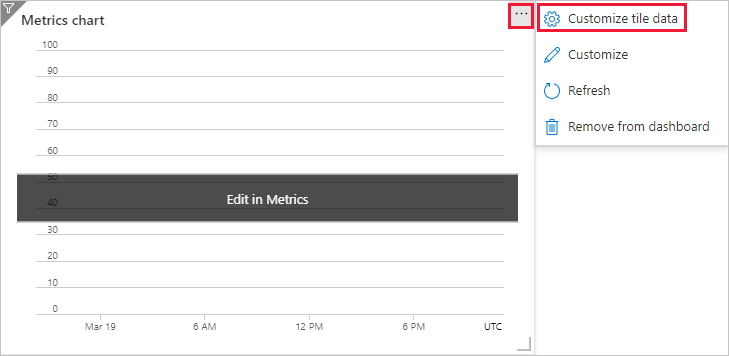
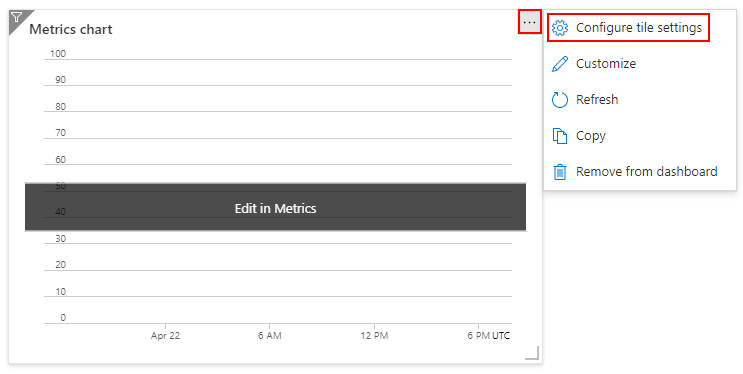
update tile customization info

diff --git a/articles/azure-portal/azure-portal-dashboards.md b/articles/azure-portal/azure-portal-dashboards.md
@@ -3,7 +3,7 @@ title: Create a dashboard in the Azure portal
 description: This article describes how to create and customize a dashboard in the Azure portal.
 ms.assetid: ff422f36-47d2-409b-8a19-02e24b03ffe7
 ms.topic: how-to
-ms.date: 04/15/2021
+ms.date: 05/06/2021
 ---
 
 # Create a dashboard in the Azure portal
@@ -37,7 +37,7 @@ This example shows how to create a new private dashboard with an assigned name. 
 
     :::image type="content" source="media/azure-portal-dashboards/dashboard-name.png" alt-text="Screenshot of an empty grid with the Tile Gallery.":::
 
-1. To save the dashboard as is, select **Done customizing** in the page header. Or, continue to the next section to add tiles and save your dashboard.
+1. To save the dashboard as is, select **Done customizing** in the page header. Or, continue to Step 2 of the next section to add tiles and save your dashboard.
 
 The dashboard view now shows your new dashboard. Select the arrow next to the dashboard name to see dashboards available to you. The list might include dashboards that other users have created and shared.
 
@@ -63,21 +63,26 @@ To add tiles to a dashboard, follow these steps:
 
     - If you work with more than one organization, add the **Organization identity** tile to your dashboard to clearly show which organization the resources belong to.
 
-1. If desired, resize the tile by dragging and dropping the lower right hand corner of the tile.
+1. If desired, [resize or rearrange](#resize-or-rearrange-tiles) your tiles.
 
-1. To save your changes, select **Save** in the page header. You can also preview the changes without saving by selecting **Preview** in the page header. From the preview screen, you can select **Save** to keep the changes, **Discard** to remove them, or **Edit** to go back to the editing options and make further changes.
+1. To save your changes, select **Save** in the page header. You can also preview the changes without saving by selecting **Preview** in the page header. This preview mode also allows you to see how [filters](#set-and-override-dashboard-filters) affect your tiles. From the preview screen, you can select **Save** to keep the changes, **Discard** to remove them, or **Edit** to go back to the editing options and make further changes.
 
    :::image type="content" source="media/azure-portal-dashboards/dashboard-save.png" alt-text="Screenshot of the Preview, Save, and Discard options.":::
+
+> [!NOTE]
+> A markdown tile lets you display custom, static content on your dashboard. This could be basic instructions, an image, a set of hyperlinks, or even contact information. For more information about using a markdown tile, see [Use a markdown tile on Azure dashboards to show custom content](azure-portal-markdown-tile.md).
 
 ### Pin content from a resource page
 
 Another way to add tiles to your dashboard is directly from a resource page.
 
-Many resource pages include a pin icon in the command bar. If you select this icon, you can pin a tile representing the source page to an existing dashboard, or to a new dashboard that you create.
+Many resource pages include a pin icon in the page header, which means that you can pin a tile representing the source page. In some cases, a pin icon may also appear by specific content within a page, which means you can pin a tile for that specific content, rather than the entire page.
 
-![Screenshot of page command bar with pin icon](./media/azure-portal-dashboards/dashboard-pin-blade.png)
+:::image type="content" source="media/azure-portal-dashboards/dashboard-pin-blade.png" alt-text="Screenshot of page command bar with pin icon.":::
 
-In some cases, a pin icon may also appear by specific content within a page, which means you can pin a tile for that specific content rather than the entire page.
+If you select this icon, you can pin the tile to an existing private or shared dashboard. You can also create a new dashboard which will include this pin by selecting **Create new**.
+
+:::image type="content" source="media/azure-portal-dashboards/dashboard-pin-pane.png" alt-text="Screenshot of Pin to dashboard options.":::
 
 ### Resize or rearrange tiles
 
@@ -91,26 +96,45 @@ To change the size of a tile or to rearrange the tiles on a dashboard, follow th
 
 1. Select a tile and drag it to a new location on the grid to arrange your dashboard.
 
-### Additional tile configuration
+### Set and override dashboard filters
 
-Some tiles might require more configuration to show the information you want. For example, the **Metrics chart** tile has to be set up to display a metric from Azure Monitor. You can also customize tile data to override the dashboard's default time settings.
+Near the top of your dashboard, you'll see options to set the **Auto refresh** and **Time settings** for data displayed in the dashboard, along with an option to add additional filters.
 
-Any tile that needs to be set up displays a banner until you customize the tile. For the **Metrics chart**, the banner is **Edit in Metrics**.To customize the tile:
+:::image type="content" source="media/azure-portal-dashboards/dashboard-global-filters.png" alt-text="Screenshot showing a dashboard's global filters.":::
+
+By default, data will be refreshed every hour. To change this, select **Auto refresh** and choose a new refresh interval. When you've made your selection, select **Apply**.
+
+The default time settings are **UTC Time**, showing data for the **Past 24 hours**. To change this, select the button and choose a new time range, time granularity, and/or time zone, then select **Apply**.
+
+To apply additional filters, select **Add filters**. The options you'll see will vary depending on the tiles in your dashboard. For example, you may be able to show only data for a specific subscription or location. Select the filter you'd like to use and make your selections. The filter will then be applied to your data. To remove a filter, select the **X** in its button.
+
+Tiles which support filtering have a ![filter icon](./media/azure-portal-dashboards/dashboard-filter.png) filter icon in the top-left corner of the tile. Some tiles allow you to override the global filters with filters specific to that tile. To do so, select **Configure tile data** from the context menu, or select the ![filter icon](./media/azure-portal-dashboards/dashboard-filter.png), then apply the desired filters.
+
+If you set filters for a particular tile, the left corner of that tile displays a double filter icon, indicating that the data in that tile reflects its own filters.
+
+:::image type="content" source="media/azure-portal-dashboards/dashboard-filter-override.png" alt-text="Screenshot showing the icon for a tile with a filter override.":::
+
+## Modify tile settings
+
+Some tiles might require more configuration to show the information you want. For example, the **Metrics chart** tile has to be set up to display a metric from Azure Monitor. You can also customize tile data to override the dashboard's default time settings and filters.
+
+## Complete tile configuration
+
+Any tile that needs to be set up displays a banner until you customize the tile. For example, in the **Metrics chart**, the banner reads **Edit in Metrics**. Other banners may use different text, such as **Configure tile**.
+
+To customize the tile:
 
 1. In the page header select **Save** to exit edit mode.
 
 1. Select the banner, then do the required setup.
 
-    ![Screenshot of tile that requires configuration](./media/azure-portal-dashboards/dashboard-configure-tile.png)
+    ![Screenshot of tile that requires configuration.](./media/azure-portal-dashboards/dashboard-configure-tile.png)
 
-> [!NOTE]
-> A markdown tile lets you display custom, static content on your dashboard. This could be basic instructions, an image, a set of hyperlinks, or even contact information. For more information about using a markdown tile, see [Use a markdown tile on Azure dashboards to show custom content](azure-portal-markdown-tile.md).
+### Customize time span for a tile
 
-### Customize tile data
+Data on the dashboard shows activity and refreshes based on the global filters. Some tiles will allow you to select a different time span for just one tile. To do so, follow these steps:
 
-Data on the dashboard automatically shows activity for the past 24 hours. To show a different time span for just this tile, follow these steps:
-
-1. Select **Customize tile data** from the context menu or from the ![filter icon](./media/azure-portal-dashboards/dashboard-filter.png) filter in the upper left corner of the tile.
+1. Select **Customize tile data** from the context menu or from the ![filter icon](./media/azure-portal-dashboards/dashboard-filter.png) in the upper left corner of the tile.
 
     ![Screenshot of tile context menu.](./media/azure-portal-dashboards/dashboard-customize-tile-data.png)
 
@@ -120,7 +144,7 @@ Data on the dashboard automatically shows activity for the past 24 hours. To sho
 
 1. Choose the time span to show for this tile. You can choose from the past 30 minutes to the past 30 days or define a custom range.
 
-1. Choose the time granularity to display. You can show anywhere from one-minute increments to one-month.
+1. Choose the time granularity to display.  You can show anywhere from one-minute increments to one-month.
 
 1. Select **Apply**.
 
